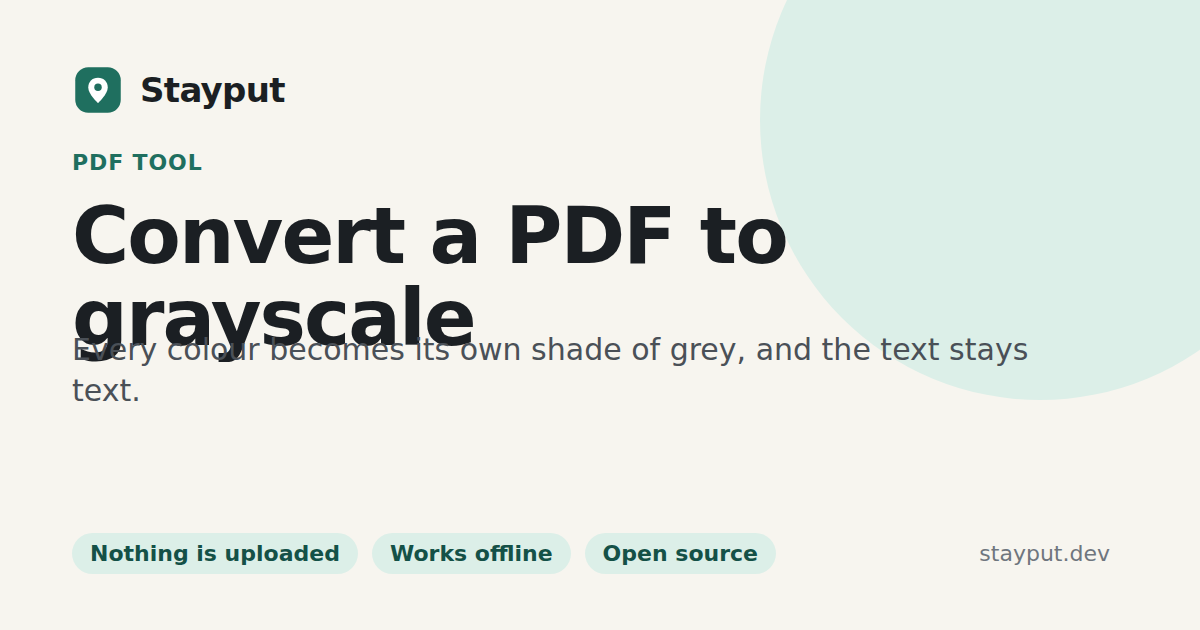
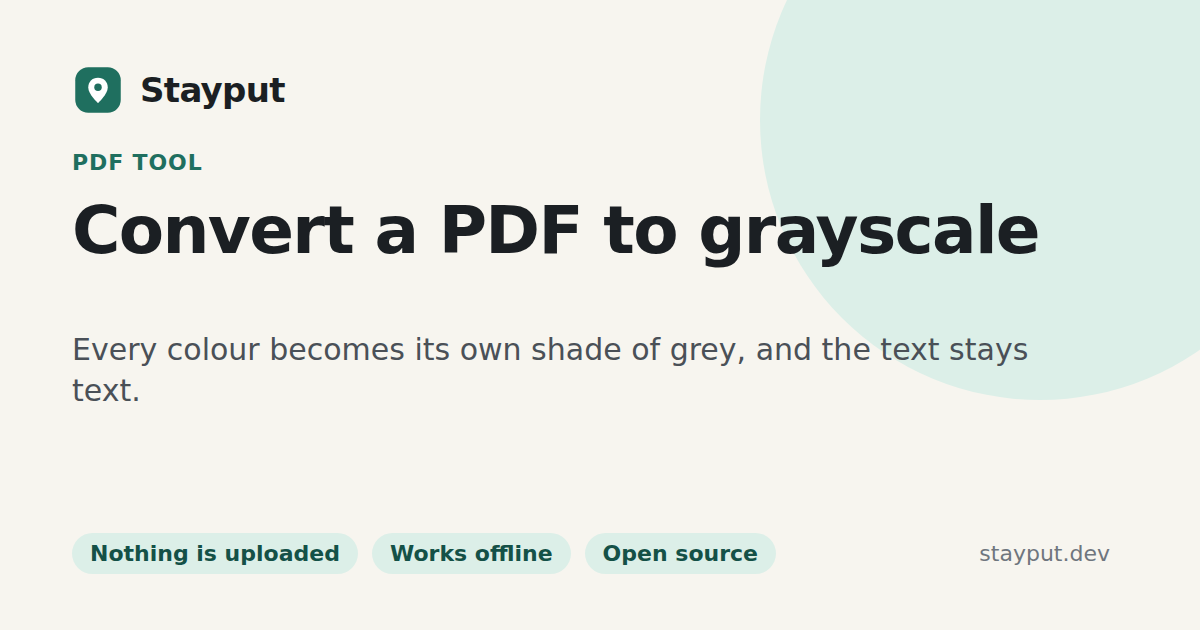
Add Extract images from PDF: every stored picture at full size
Also fixes share images whose heading wrapped into the tagline.

Changed region(s): [[0.0617, 0.3016, 0.8633, 0.4222], [0.0617, 0.4524, 0.4008, 0.573]]

diff --git a/tests/tools.spec.ts b/tests/tools.spec.ts
@@ -157,7 +157,7 @@ test('home page lists every tool and has no console errors', async ({ page }) =>
   await stubAnalytics(page);
   await page.goto('/');
   await expect(page.locator('h1')).toHaveText('Your files stay put.');
-  expect(await page.locator('.tool-card').count()).toBe(64);
+  expect(await page.locator('.tool-card').count()).toBe(65);
   expect(errors).toEqual([]);
 });
 
@@ -496,7 +496,7 @@ test('PDF to image renders selected pages', async ({ page }) => {
 });
 
 test('every tool page renders with structured data and no errors', async ({ page }) => {
-  const slugs = ['heic-to-jpg', 'convert-image', 'compress-image', 'strip-exif', 'merge-pdf', 'split-pdf', 'compress-pdf', 'rotate-pdf', 'image-to-pdf', 'pdf-to-image', 'reorder-pdf', 'sign-pdf', 'pdf-page-numbers', 'pdf-to-word', 'crop-image', 'favicon-generator', 'unlock-pdf', 'protect-pdf', 'exif-viewer', 'video-to-gif', 'blur-image', 'rotate-image', 'video-to-mp3', 'image-to-text', 'color-picker', 'gif-to-mp4', 'compress-video', 'video-to-mp4', 'compress-png', 'trim-video', 'mute-video', 'resize-video', 'rotate-video', 'compress-gif', 'crop-video', 'video-speed', 'merge-videos', 'add-audio-to-video', 'reverse-video', 'video-to-jpg', 'remove-background', 'trim-audio', 'passport-photo', 'audio-converter', 'watermark-image', 'watermark-pdf', 'qr-code-generator', 'screen-recorder', 'voice-recorder', 'remove-pdf-metadata', 'sticker-maker', 'profile-picture-maker', 'volume-booster', 'redact-pdf', 'merge-audio', 'mic-test', 'crop-pdf', 'webcam-test', 'grayscale-pdf', 'audio-to-video', 'compress-audio', 'add-text-to-image', 'split-image', 'collage-maker'];
+  const slugs = ['heic-to-jpg', 'convert-image', 'compress-image', 'strip-exif', 'merge-pdf', 'split-pdf', 'compress-pdf', 'rotate-pdf', 'image-to-pdf', 'pdf-to-image', 'reorder-pdf', 'sign-pdf', 'pdf-page-numbers', 'pdf-to-word', 'crop-image', 'favicon-generator', 'unlock-pdf', 'protect-pdf', 'exif-viewer', 'video-to-gif', 'blur-image', 'rotate-image', 'video-to-mp3', 'image-to-text', 'color-picker', 'gif-to-mp4', 'compress-video', 'video-to-mp4', 'compress-png', 'trim-video', 'mute-video', 'resize-video', 'rotate-video', 'compress-gif', 'crop-video', 'video-speed', 'merge-videos', 'add-audio-to-video', 'reverse-video', 'video-to-jpg', 'remove-background', 'trim-audio', 'passport-photo', 'audio-converter', 'watermark-image', 'watermark-pdf', 'qr-code-generator', 'screen-recorder', 'voice-recorder', 'remove-pdf-metadata', 'sticker-maker', 'profile-picture-maker', 'volume-booster', 'redact-pdf', 'merge-audio', 'mic-test', 'crop-pdf', 'webcam-test', 'grayscale-pdf', 'audio-to-video', 'compress-audio', 'add-text-to-image', 'split-image', 'collage-maker', 'extract-pdf-images'];
   for (const slug of slugs) {
     const errors = await open(page, slug);
     expect(await page.locator('script[type="application/ld+json"]').count()).toBe(3);
@@ -4424,4 +4424,52 @@ test('Collage maker makes a grid with spacing on a background colour, and needs 
   expect(Math.max(...corner.slice(0, 3))).toBeLessThan(30);
   const inside = await pixelAt(page, jpg, 400, 300);
   expect(inside[0]).toBeGreaterThan(170);
+});
+
+test('Extract images from PDF saves each stored picture at full size, once, and no bytes leave the tab', async ({ page }) => {
+  // A PDF holding a JPEG photo on two pages, a transparent PNG drawn small, and a 1-pixel spacer.
+  const doc = await PDFDocument.create();
+  const photo = await doc.embedJpg(readFileSync(fx('photo.jpg')));
+  const gradient = await doc.embedPng(readFileSync(fx('gradient.png')));
[1 lines of base64/hex data omitted]
+  const p1 = doc.addPage([612, 792]);
+  p1.drawImage(photo, { x: 50, y: 400, width: 320, height: 240 });
+  p1.drawImage(dot, { x: 50, y: 380, width: 500, height: 1 });
+  const p2 = doc.addPage([612, 792]);
+  p2.drawImage(photo, { x: 50, y: 400, width: 160, height: 120 });
+  p2.drawImage(gradient, { x: 50, y: 100, width: 120, height: 80 });
+  const file = join(mkdtempSync(join(tmpdir(), 'pics-')), 'brochure.pdf');
+  writeFileSync(file, await doc.save());
+
+  const errors = await open(page, 'extract-pdf-images');
+  const net = watchNetwork(page);
+  const { items } = await run(page, [file]);
+  expect(items).toBe(2);
+  await expect(page.locator('#results-list')).toContainText('1600×1200, page 1');
+  await expect(page.locator('#results-list')).toContainText('600×400, page 2');
+  const zip = await zipAll(page);
+  expect(Object.keys(zip).sort()).toEqual(['brochure-image-1.png', 'brochure-image-2.png']);
+  expect(pngSize(zip['brochure-image-1.png']!)).toEqual({ width: 1600, height: 1200 });
+  const centre = await pixelAt(page, zip['brochure-image-1.png']!, 800, 600);
+  expect(Math.abs(centre[0]! - 239) + Math.abs(centre[1]! - 200) + Math.abs(centre[2]! - 60)).toBeLessThan(30);
+  // The PNG's transparency survives.
+  expect((await pixelAt(page, zip['brochure-image-2.png']!, 0, 0))[3]).toBe(0);
+  expect((await pixelAt(page, zip['brochure-image-2.png']!, 300, 200))[3]).toBe(255);
+
+  // With both filters off, the repeat and the spacer come out too.
+  await page.locator('#skip-small').uncheck({ force: true });
+  await page.locator('#dedupe').uncheck({ force: true });
+  await page.locator('#run').click();
+  await expect(page.locator('#results-list .result-item')).toHaveCount(4);
+  await expect(page.locator('#results-list')).toContainText('1×1, page 1');
+  net.assertNothingLeft(['brochure.pdf']);
+  expect(errors).toEqual([]);
+});
+
+test('Extract images from PDF explains when a PDF holds no pictures', async ({ page }) => {
+  await open(page, 'extract-pdf-images');
+  await expect(page.locator('#tool')).toHaveAttribute('data-ready', 'true');
+  await page.locator('#file-input').setInputFiles([fx('text.pdf')]);
+  await page.locator('#run').click();
+  await expect(page.locator('#error')).toContainText('No pictures are stored in these pages');
 });

diff --git a/src/lib/pdf-images.ts b/src/lib/pdf-images.ts
@@ -1,0 +1,130 @@
+/**
+ * Pull the pictures embedded in a PDF back out at their stored size. pdf.js
+ * decodes every image format a PDF can hold (JPEG, JPEG 2000, Flate, CCITT,
+ * JBIG2) and applies soft masks, so what comes out is what the page shows,
+ * before it was scaled onto the page.
+ */
+import type * as PdfJs from 'pdfjs-dist';
+import { loadPdfJs } from './pdf';
+
+export interface PdfImage {
+  page: number;
+  canvas: HTMLCanvasElement;
+}
+
+type Decoded = { width: number; height: number; bitmap?: ImageBitmap; data?: Uint8ClampedArray | Uint8Array; kind?: number };
+
+function objectOf(page: PdfJs.PDFPageProxy, id: string): Promise<Decoded | null> {
+  const store = id.startsWith('g_') ? page.commonObjs : page.objs;
+  return new Promise((ok) => {
+    const timer = setTimeout(() => ok(null), 10_000);
+    store.get(id, (obj: Decoded) => {
+      clearTimeout(timer);
+      ok(obj ?? null);
+    });
+  });
+}
+
+/** Draw one decoded pdf.js image to a canvas. */
+export function toCanvas(img: Decoded): HTMLCanvasElement | null {
+  const { width, height } = img;
+  if (!width || !height) return null;
+  const canvas = document.createElement('canvas');
+  canvas.width = width;
+  canvas.height = height;
+  const ctx = canvas.getContext('2d')!;
+  if (img.bitmap) {
+    ctx.drawImage(img.bitmap, 0, 0);
+    return canvas;
+  }
+  const src = img.data;
+  if (!src) return null;
+  const out = ctx.createImageData(width, height);
+  const px = out.data;
+  const n = width * height;
+  if (img.kind === 3) px.set(src.subarray(0, n * 4));
+  else if (img.kind === 2) {
+    for (let i = 0; i < n; i++) {
+      px[i * 4] = src[i * 3]!;
+      px[i * 4 + 1] = src[i * 3 + 1]!;
+      px[i * 4 + 2] = src[i * 3 + 2]!;
+      px[i * 4 + 3] = 255;
+    }
+  } else if (img.kind === 1) {
+    // One bit per pixel, rows padded to whole bytes, 1 = white.
+    const row = (width + 7) >> 3;
+    for (let y = 0; y < height; y++)
+      for (let x = 0; x < width; x++) {
+        const v = (src[y * row + (x >> 3)]! >> (7 - (x & 7))) & 1 ? 255 : 0;
+        const o = (y * width + x) * 4;
+        px[o] = px[o + 1] = px[o + 2] = v;
+        px[o + 3] = 255;
+      }
+  } else return null;
+  ctx.putImageData(out, 0, 0);
+  return canvas;
+}
+
+/** A cheap fingerprint: size plus an 8×8 grid of sampled pixels. */
+function fingerprint(canvas: HTMLCanvasElement): string {
+  const s = document.createElement('canvas');
+  s.width = s.height = 8;
+  const ctx = s.getContext('2d', { willReadFrequently: true })!;
+  ctx.drawImage(canvas, 0, 0, 8, 8);
+  const d = ctx.getImageData(0, 0, 8, 8).data;
+  let h = `${canvas.width}x${canvas.height}:`;
+  for (let i = 0; i < d.length; i += 4) h += ((d[i]! >> 4) << 12 | (d[i + 1]! >> 4) << 8 | (d[i + 2]! >> 4) << 4 | (d[i + 3]! >> 4)).toString(36) + ',';
+  return h;
+}
+
+export interface ExtractOptions {
+  /** Skip images whose shorter side is below this many pixels (icons, rules, spacers). */
+  minSide: number;
+  /** Keep only the first copy of an image repeated on several pages (a logo in the header). */
+  dedupe: boolean;
+  onPage?: (index: number, total: number) => void;
+}
+
+export async function extractImages(doc: PdfJs.PDFDocumentProxy, pages: number[], opts: ExtractOptions): Promise<{ images: PdfImage[]; skippedSmall: number; skippedRepeats: number }> {
+  const { lib } = await loadPdfJs();
+  const paint = new Set([lib.OPS.paintImageXObject, lib.OPS.paintImageXObjectRepeat]);
+  const images: PdfImage[] = [];
+  const seenIds = new Set<string>();
+  const seenPrints = new Set<string>();
+  let skippedSmall = 0;
+  let skippedRepeats = 0;
+  for (const [i, p] of pages.entries()) {
+    opts.onPage?.(i, pages.length);
+    const page = await doc.getPage(p + 1);
+    const ops = await page.getOperatorList();
+    for (let k = 0; k < ops.fnArray.length; k++) {
+      if (!paint.has(ops.fnArray[k]!)) continue;
+      const id = ops.argsArray[k]?.[0];
+      if (typeof id !== 'string') continue;
+      const key = id.startsWith('g_') ? id : `${p}:${id}`;
+      // The same object drawn twice is one picture; shared ('g_') objects repeat across pages.
+      if (seenIds.has(key) && (opts.dedupe || !id.startsWith('g_'))) continue;
+      seenIds.add(key);
+      const obj = await objectOf(page, id);
+      if (!obj) continue;
+      if (Math.min(obj.width, obj.height) < opts.minSide) {
+        skippedSmall++;
+        continue;
+      }
+      const canvas = toCanvas(obj);
+      if (!canvas) continue;
+      if (opts.dedupe) {
+        const f = fingerprint(canvas);
+        if (seenPrints.has(f)) {
+          skippedRepeats++;
+          canvas.width = canvas.height = 0;
+          continue;
+        }
+        seenPrints.add(f);
+      }
+      images.push({ page: p + 1, canvas });
+    }
+    page.cleanup();
+  }
+  return { images, skippedSmall, skippedRepeats };
+}

diff --git a/src/tools/extract-pdf-images.ts b/src/tools/extract-pdf-images.ts
@@ -1,0 +1,84 @@
+import { createShell, bool, radio, str } from '../lib/shell';
+import { closePdfJs, openWithPdfJs } from '../lib/pdf';
+import { extractImages } from '../lib/pdf-images';
+import { canvasToBlob } from '../lib/image';
+import { parsePageRange } from '../lib/ranges';
+import { baseName, type OutputFile } from '../lib/files';
+
+const info = document.getElementById('page-info')!;
+const pagesInputs = document.querySelectorAll<HTMLInputElement>('input[name="pages"]');
+const syncPages = () => {
+  document.getElementById('range-field')!.hidden = radio('pages', 'all') !== 'range';
+};
+pagesInputs.forEach((i) => i.addEventListener('change', syncPages));
+syncPages();
+
+createShell({
+  async onFilesChanged(files) {
+    info.textContent = '';
+    const f = files[0];
+    if (!f) return;
+    const doc = await openWithPdfJs(new Uint8Array(await f.file.arrayBuffer()));
+    const count = doc.numPages;
+    await closePdfJs(doc);
+    info.textContent = `${count} page${count === 1 ? '' : 's'}`;
+  },
+  async process(files, progress) {
+    const entry = files[0]!;
+    const doc = await openWithPdfJs(new Uint8Array(await entry.file.arrayBuffer()));
+    try {
+      const type = str('format', 'image/png');
+      const ext = type === 'image/png' ? 'png' : 'jpg';
+      const pages = radio('pages', 'all') === 'all' ? Array.from({ length: doc.numPages }, (_, i) => i) : parsePageRange(str('range'), doc.numPages);
+      const { images, skippedSmall, skippedRepeats } = await extractImages(doc, pages, {
+        minSide: bool('skip-small') ? 50 : 1,
+        dedupe: bool('dedupe'),
+        onPage: (i, n) => progress.set(`Looking for pictures on page ${pages[i]! + 1} (${i + 1} of ${n})`, (i / n) * 0.8),
+      });
+      if (!images.length) {
+        const left = skippedSmall + skippedRepeats;
+        throw new Error(
+          left
+            ? `Only ${left} small or repeated image${left === 1 ? ' was' : 's were'} found. Untick the options to include ${left === 1 ? 'it' : 'them'}.`
+            : 'No pictures are stored in these pages. If the PDF is a scan or the pictures are drawings, use PDF to Image to save whole pages instead.',
+        );
+      }
+      const base = baseName(entry.file.name);
+      const pad = String(images.length).length;
+      const outs: OutputFile[] = [];
+      for (const [i, img] of images.entries()) {
+        progress.set(`Saving image ${i + 1} of ${images.length}`, 0.8 + (i / images.length) * 0.2);
+        const { canvas } = img;
+        let src = canvas;
+        if (type === 'image/jpeg') {
+          // JPG has no transparency: put see-through areas on white, as a viewer shows them.
+          src = document.createElement('canvas');
+          src.width = canvas.width;
+          src.height = canvas.height;
+          const ctx = src.getContext('2d')!;
+          ctx.fillStyle = '#fff';
+          ctx.fillRect(0, 0, src.width, src.height);
+          ctx.drawImage(canvas, 0, 0);
+        }
+        const blob = await canvasToBlob(src, type, type === 'image/jpeg' ? 0.92 : undefined);
+        const preview = document.createElement('canvas');
+        const s = Math.min(1, 96 / Math.max(canvas.width, canvas.height));
+        preview.width = Math.max(1, Math.round(canvas.width * s));
+        preview.height = Math.max(1, Math.round(canvas.height * s));
+        preview.getContext('2d')!.drawImage(canvas, 0, 0, preview.width, preview.height);
+        outs.push({
+          name: `${base}-image-${String(i + 1).padStart(pad, '0')}.${ext}`,
+          blob,
+          previewUrl: preview.toDataURL('image/png'),
+          note: `${canvas.width}×${canvas.height}, page ${img.page}`,
+        });
+        canvas.width = canvas.height = src.width = src.height = 0;
+      }
+      progress.set('Done', 1);
+      return outs;
+    } finally {
+      await closePdfJs(doc);
+    }
+  },
+  resultsTitle: (o) => `${o.length} image${o.length === 1 ? '' : 's'} found`,
+});

diff --git a/src/data/tools.ts b/src/data/tools.ts
@@ -2100,6 +2100,48 @@ export const tools: Tool[] = [
     ],
   },
   {
+    slug: 'extract-pdf-images',
+    name: 'Extract Images from PDF',
+    title: 'Extract Images from PDF at Full Resolution, No Upload | Stayput',
+    description:
+      'Save every photo and picture inside a PDF as PNG or JPG, at the resolution it was stored. Runs in your browser: the PDF is not uploaded. Free, no limits.',
+    heading: 'Extract images from a PDF',
+    tagline: 'Every picture in the file, at its real size, without screenshots and without uploading the PDF.',
+    category: 'pdf',
+    accept: 'application/pdf,.pdf',
+    multiple: false,
+    dropLabel: 'Drop a PDF here',
+    action: 'Extract images',
+    keywords: ['extract images from pdf', 'pdf image extractor', 'save images from pdf', 'get pictures from pdf', 'export images from pdf', 'pdf to images extract', 'download images from pdf'],
+    steps: [
+      'Drop a PDF.',
+      'Choose all pages or some, PNG or JPG, and whether to leave out icons and repeats.',
+      'Download the pictures one by one or all together as a zip.',
+    ],
+    faq: [
+      {
+        q: 'Are the images at full quality?',
+        a: 'Yes. Each picture comes out at the pixel size it is stored at inside the PDF, which is usually larger than it looks on the page. Choose PNG to keep every pixel exactly; JPG makes smaller files for photos.',
+      },
+      {
+        q: 'How is this different from PDF to Image?',
+        a: 'PDF to Image saves whole pages, text and all, as pictures. This tool pulls out only the photos and pictures placed in the pages, each as its own file, without the text around them.',
+      },
+      {
+        q: 'Why did it find no images?',
+        a: 'Some PDFs have no stored pictures: charts and logos are often drawn as vector shapes, and some scanners store each page as one image. For a scan you get one picture per page. For vector drawings, use PDF to Image to save the page instead.',
+      },
+      {
+        q: 'What about password-protected PDFs?',
+        a: 'A PDF that opens without a password but blocks copying works as normal. If it needs a password to open, remove it first with Unlock PDF, which also runs in your browser.',
+      },
+      {
+        q: 'Is my PDF uploaded?',
+        a: 'No. The file is read by pdf.js running in this tab and the pictures are saved from memory. Nothing is sent to a server, and the page keeps working with the network off once it has loaded.',
+      },
+    ],
+  },
+  {
     slug: 'favicon-generator',
     name: 'Favicon generator',
     title: 'Favicon Generator: ICO, Apple and Manifest Icons | Stayput',

diff --git a/src/data/engine.ts b/src/data/engine.ts
@@ -207,6 +207,10 @@ export const engines: Record<string, Engine> = {
     how: 'Your browser decodes each picture (libheif or the Squoosh decoders step in for HEIC, AVIF and JPEG XL). The layout is worked out with plain arithmetic: pictures in a row share a height, in a stack share a width, and in a grid get equal cells, cropped from the middle or fitted whole. Each picture is then drawn once at its place on a single canvas in your tab with high-quality scaling, and the collage is encoded in the format you chose.',
     versus: 'Collage apps and websites upload every photo, lock layouts behind a subscription and often add their logo to the result. Here the photos never leave your device and the collage carries no mark.',
   },
+  'extract-pdf-images': {
+    how: 'pdf.js (Apache 2.0), the PDF engine inside Firefox, opens the file in your tab and lists every drawing instruction on each chosen page. Each instruction that paints a stored picture hands over that picture decoded at its own size, whatever the format inside the PDF (JPEG, JPEG 2000, Flate, JBIG2 or fax-style CCITT), with any transparency mask applied. It is then saved as PNG or JPG. Pictures smaller than 50 pixels and repeats found by comparing a small thumbnail are left out unless you untick those options.',
+    versus: 'Online extractors upload the whole PDF to pull out a few photos, and the PDFs people mine for pictures are often private: contracts with scanned signatures, property reports, medical letters, a friend’s wedding brochure. Here the file never leaves your device, and every image comes out at its stored resolution rather than as a screenshot of the page.',
+  },
   'video-to-mp4': {
     how: 'Mediabunny (MPL-2.0), a media toolkit written in TypeScript, reads the MOV, MKV, WebM or MP4 container in your tab. H.264 video and AAC or MP3 sound are copied into the new MP4 packet by packet, which takes seconds and changes nothing in the picture. Other video (VP8, VP9, AV1) is decoded and re-encoded by your browser’s own video encoder through WebCodecs, H.264 where available, and other sound becomes AAC or Opus. The MP4 is written in memory.',
     versus: 'Online converters upload the whole video just to rewrap it, which can take longer than the conversion itself, cap free files at 100 MB to 1 GB, and keep a copy on their server. Here the file never leaves your device, and a large MOV from your phone converts in seconds because nothing is re-encoded that does not need to be.',

diff --git a/src/data/next-steps.ts b/src/data/next-steps.ts
@@ -12,6 +12,7 @@ export const nextSteps: Record<string, [string, string]> = {
   'crop-image': ['compress-image', 'strip-exif'],
   'image-to-pdf': ['compress-pdf', 'merge-pdf'],
   'pdf-to-image': ['compress-image', 'crop-image'],
+  'extract-pdf-images': ['compress-image', 'remove-background'],
   'merge-pdf': ['compress-pdf', 'pdf-page-numbers'],
   'split-pdf': ['compress-pdf', 'merge-pdf'],
   'compress-pdf': ['merge-pdf', 'sign-pdf'],

diff --git a/src/tools/landing.ts b/src/tools/landing.ts
@@ -12,6 +12,7 @@ const modules: Record<string, () => Promise<unknown>> = {
   'split-pdf': () => import('./split-pdf'),
   'image-to-pdf': () => import('./image-to-pdf'),
   'pdf-to-image': () => import('./pdf-to-image'),
+  'extract-pdf-images': () => import('./extract-pdf-images'),
   'pdf-to-word': () => import('./pdf-to-word'),
   'crop-image': () => import('./crop-image'),
   'reorder-pdf': () => import('./reorder-pdf'),

diff --git a/README.md b/README.md
@@ -47,7 +47,7 @@ That is the whole pitch, and you can check it in three ways:
 | [Video or audio to MP3](https://stayput.dev/tools/video-to-mp3) (MP4, MOV, M4A, WAV; or to WAV) | [PDF to Word or text](https://stayput.dev/tools/pdf-to-word) (paragraphs and headings, not layout) |
 | [Image to text (OCR)](https://stayput.dev/tools/image-to-text) (photos, screenshots, scans; copy or .txt) | [Unlock PDF](https://stayput.dev/tools/unlock-pdf) (remove a password you know, or print/copy restrictions) |
 | [Color picker from image](https://stayput.dev/tools/color-picker) (HEX, RGB, HSL; main-colour palette) | [Password protect PDF](https://stayput.dev/tools/protect-pdf) (AES-256) |
-| [GIF to MP4](https://stayput.dev/tools/gif-to-mp4) (animated GIF to video, up to 90% smaller) | |
+| [GIF to MP4](https://stayput.dev/tools/gif-to-mp4) (animated GIF to video, up to 90% smaller) | [Extract images from PDF](https://stayput.dev/tools/extract-pdf-images) (every picture at its stored size) |
 | [Compress video](https://stayput.dev/tools/compress-video) (MP4, MOV, WebM; fit 10 MB for Discord or 25 MB for email) | |
 | [Video to MP4](https://stayput.dev/tools/video-to-mp4) (MOV, MKV, WebM; H.264 copied with no quality loss) | |
 | [Trim video](https://stayput.dev/tools/trim-video) (cut a clip without re-encoding) | |
